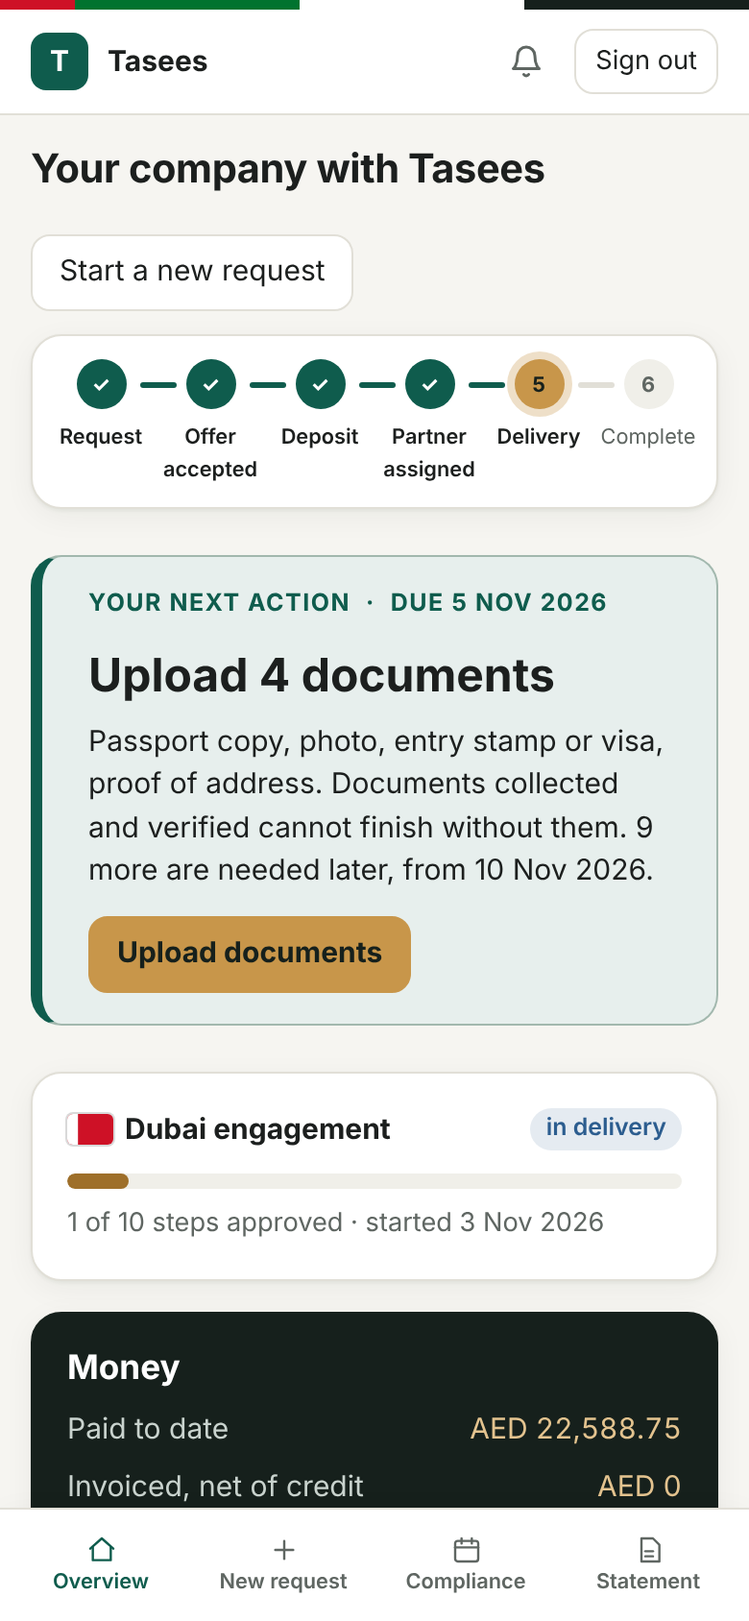
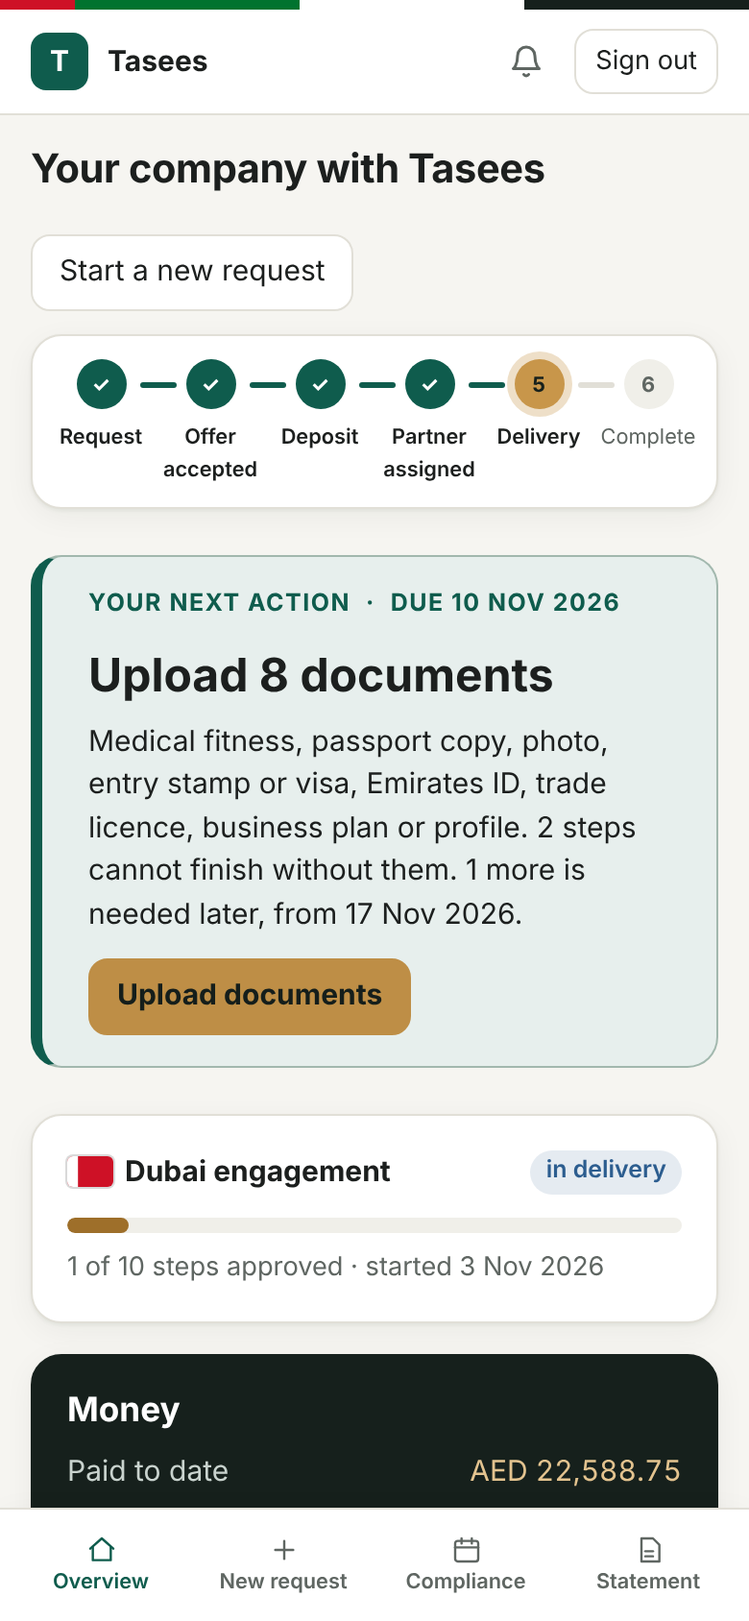
E15 review fixes: a step already approved never takes over "needed now"
The independent review found that documents left open on a step the client had already approved, due first, became
"needed now": the documents holding up real work were folded under "later" and the next action said the finished
step "cannot finish". Approved steps no longer count; their open documents are listed last, to send only if the
firm asks, and are not counted as needed later in the next action.

Also: the next action's date is the most urgent one; the property test runs today across three weeks and checks
sent-back, late, tied, approved and unknown steps; a smoke check compares the plan with the steps themselves;
heading levels and the panel's opening are corrected.

Tests: core 152, API 365 (1 skipped) on PGlite; typecheck clean; smoke 325 checks.

Claude-Session: https://claude.ai/code/session_01QzEGiu7q2Qy5LpHAKh2X9v

diff --git a/packages/core/test/documents.test.ts b/packages/core/test/documents.test.ts
@@ -8,6 +8,7 @@ const steps: PlannedStep[] = [
   { id: "bank", seq: 7, dueDate: "2026-11-10" },
   { id: "vat", seq: 9, dueDate: "2026-11-17" },
   { id: "undated", seq: 11, dueDate: null },
+  { id: "done", seq: 0, dueDate: "2026-11-01", approved: true },
 ];
 const doc = (id: string, milestoneId: string, status: PlannedDocument["status"] = "requested"): PlannedDocument => ({ id, milestoneId, status });
 const TODAY = "2026-11-03";
@@ -39,27 +40,52 @@ describe("the client's documents, grouped (E15)", () => {
   it("a document sent back, or one for a step due today or late, is always needed now", () => {
     const docs = [doc("l1", "licence"), doc("t1", "vat", "rejected"), doc("v1", "visa")];
     expect(documentPlan(docs, steps, TODAY).now).toEqual(["l1", "t1"]);
+    // The date is the most urgent one: the licence's 5 November, not the sent-back VAT document's 17th.
+    expect(documentPlan(docs, steps, TODAY).nowBy).toBe("2026-11-05");
     // On 10 November the licence's documents are late and the visa's are due: all needed now.
     expect(documentPlan(docs, steps, "2026-11-10").now).toEqual(["l1", "v1", "t1"]);
   });
 
-  it("every document is in exactly one group, and nothing is needed now only when nothing is missing", () => {
+  it("a document left open on a step already approved never takes over 'now' (independent review of E15)", () => {
+    // The approved step is due first and is late, yet the licence's documents are the ones needed now.
+    const docs = [doc("x1", "done"), doc("x2", "done", "rejected"), doc("l1", "licence"), doc("v1", "visa")];
+    const plan = documentPlan(docs, steps, TODAY);
+    expect(plan.now).toEqual(["l1"]);
+    expect(plan.nowBy).toBe("2026-11-05");
+    expect(plan.later).toEqual([
+      { milestoneId: "visa", dueDate: "2026-11-10", ids: ["v1"] },
+      { milestoneId: "done", dueDate: "2026-11-01", ids: ["x1", "x2"], approved: true },
+    ]);
+    // Only approved-step leftovers: nothing is needed now.
+    expect(documentPlan([doc("x1", "done")], steps, TODAY)).toMatchObject({ now: [], nowBy: null, later: [{ milestoneId: "done", approved: true }] });
+    // A document whose step is not in the list goes later, without a date.
+    expect(documentPlan([doc("l1", "licence"), doc("m1", "missing")], steps, TODAY).later).toEqual([{ milestoneId: "missing", dueDate: null, ids: ["m1"] }]);
+  });
+
+  it("every document is in exactly one group; sent-back and late documents are now; nothing later is due before or with the first batch", () => {
     const statuses = ["requested", "uploaded", "received", "rejected"] as const;
     let seed = 3;
     const rnd = (n: number) => ((seed = (seed * 48271) % 2147483647) % n);
     for (let k = 0; k < 300; k++) {
       const docs = Array.from({ length: 1 + rnd(12) }, (_, i) => doc(`d${i}`, steps[rnd(steps.length)]!.id, statuses[rnd(4)]));
-      const today = `2026-11-0${1 + rnd(9)}`;
+      const today = `2026-11-${String(1 + rnd(20)).padStart(2, "0")}`;
       const plan = documentPlan(docs, steps, today);
+      const label = JSON.stringify({ docs, today });
       const all = [...plan.now, ...plan.later.flatMap((l) => l.ids), ...plan.submitted].sort();
-      expect(all).toEqual(docs.map((d) => d.id).sort());
-      const missing = docs.filter((d) => d.status === "requested" || d.status === "rejected");
-      expect(plan.now.length > 0).toBe(missing.length > 0);
-      for (const id of plan.submitted) expect(["uploaded", "received"]).toContain(docs.find((d) => d.id === id)!.status);
-      // Nothing later is due before something now (sent-back documents aside).
-      const dueOf = (id: string) => steps.find((s) => s.id === docs.find((d) => d.id === id)!.milestoneId)!.dueDate ?? "9999";
-      const nowWaiting = plan.now.filter((id) => docs.find((d) => d.id === id)!.status === "requested").map(dueOf);
-      for (const l of plan.later) for (const id of l.ids) for (const n of nowWaiting) expect(dueOf(id) >= n).toBe(true);
+      expect(all, label).toEqual(docs.map((d) => d.id).sort());
+      const stepOf = (id: string) => steps.find((s) => s.id === docs.find((d) => d.id === id)!.milestoneId)!;
+      const statusOf = (id: string) => docs.find((d) => d.id === id)!.status;
+      const open = docs.filter((d) => (d.status === "requested" || d.status === "rejected") && !stepOf(d.id).approved);
+      expect(plan.now.length > 0, label).toBe(open.length > 0);
+      for (const id of plan.submitted) expect(["uploaded", "received"]).toContain(statusOf(id));
+      for (const id of plan.now) expect(stepOf(id).approved, label).toBeFalsy();
+      // Every sent-back document, and every one for a step due today or late, is needed now (approved steps aside).
+      for (const d of open) if (d.status === "rejected" || (stepOf(d.id).dueDate ?? "9999") <= today) expect(plan.now, label).toContain(d.id);
+      // Nothing later (on a step not approved) is due before or on the same day as the first batch waiting now.
+      const dueOf = (id: string) => stepOf(id).dueDate ?? "9999";
+      const nowWaiting = plan.now.filter((id) => statusOf(id) === "requested").map(dueOf);
+      for (const l of plan.later.filter((x) => !x.approved)) for (const id of l.ids) for (const n of nowWaiting) expect(dueOf(id) > n, label).toBe(true);
+      expect(plan.nowBy, label).toBe(plan.now.map(dueOf).filter((x) => x !== "9999").sort()[0] ?? null);
     }
   });
 });

diff --git a/packages/core/src/documents.ts b/packages/core/src/documents.ts
@@ -5,9 +5,12 @@
  * visas, a bank account and VAT is asked for a dozen or more at once, some for steps weeks away. The client sees:
  *  - **needed now**: anything sent back, anything for a step due today or already late, and the documents for the
  *    step that comes first among those still waiting (with every step due the same day). Uploading them brings the
- *    next batch forward, so "now" is never empty while something is missing;
+ *    next batch forward, so "now" is never empty while a step not yet approved is missing a document;
  *  - **needed later**: the rest, step by step in the order they are due, each with its date. Uploading early is fine;
  *  - **already sent**: uploaded (being checked) or received.
+ * A document still open on a step the client already approved never counts as needed now (independent review of
+ * E15): it would push the documents that hold up real work aside and say a finished step "cannot finish". It is
+ * listed last among the later ones, marked as for an approved step.
  *
  * Pure. Dates are YYYY-MM-DD (Gulf calendar days); a step with no due date comes last.
  */
@@ -23,15 +26,17 @@ export interface PlannedStep {
   id: string;
   seq: number;
   dueDate: string | null;
+  /** The client approved the step (or it was approved for them): its documents no longer hold anything up. */
+  approved?: boolean;
 }
 
 export interface DocumentPlan {
   /** Document request ids to upload now, in step order. */
   now: string[];
-  /** The latest due date among the steps "now" is for (null when nothing is needed now). */
+  /** The earliest due date among the steps "now" is for: the date that matters most (null when none has a date). */
   nowBy: string | null;
-  /** The rest still to upload, grouped by step, in the order the steps are due. */
-  later: Array<{ milestoneId: string; dueDate: string | null; ids: string[] }>;
+  /** The rest still to upload, grouped by step, in the order the steps are due; steps already approved last. */
+  later: Array<{ milestoneId: string; dueDate: string | null; ids: string[]; approved?: boolean }>;
   /** Uploaded or received. */
   submitted: string[];
 }
@@ -42,19 +47,20 @@ export function documentPlan(docs: PlannedDocument[], steps: PlannedStep[], toda
   const step = new Map(steps.map((s) => [s.id, s]));
   const due = (d: PlannedDocument) => step.get(d.milestoneId)?.dueDate ?? LAST;
   const seq = (d: PlannedDocument) => step.get(d.milestoneId)?.seq ?? Number.MAX_SAFE_INTEGER;
-  const order = (x: PlannedDocument, y: PlannedDocument) => due(x).localeCompare(due(y)) || seq(x) - seq(y);
+  const approved = (d: PlannedDocument) => !!step.get(d.milestoneId)?.approved;
+  const order = (x: PlannedDocument, y: PlannedDocument) => Number(approved(x)) - Number(approved(y)) || due(x).localeCompare(due(y)) || seq(x) - seq(y);
   const outstanding = docs.filter((d) => d.status === "requested" || d.status === "rejected").sort(order);
-  const waiting = outstanding.filter((d) => d.status === "requested");
+  const waiting = outstanding.filter((d) => d.status === "requested" && !approved(d));
   const first = waiting.length ? due(waiting[0]!) : null;
-  const isNow = (d: PlannedDocument) => d.status === "rejected" || due(d) <= today || due(d) === first;
+  const isNow = (d: PlannedDocument) => !approved(d) && (d.status === "rejected" || due(d) <= today || due(d) === first);
   const now = outstanding.filter(isNow);
   const later = new Map<string, string[]>();
   for (const d of outstanding.filter((x) => !isNow(x))) later.set(d.milestoneId, [...(later.get(d.milestoneId) ?? []), d.id]);
   const nowDates = now.map(due).filter((x) => x !== LAST).sort();
   return {
     now: now.map((d) => d.id),
-    nowBy: nowDates.length ? nowDates[nowDates.length - 1]! : null,
-    later: [...later.entries()].map(([milestoneId, ids]) => ({ milestoneId, dueDate: step.get(milestoneId)?.dueDate ?? null, ids })),
+    nowBy: nowDates[0] ?? null,
+    later: [...later.entries()].map(([milestoneId, ids]) => ({ milestoneId, dueDate: step.get(milestoneId)?.dueDate ?? null, ids, ...(step.get(milestoneId)?.approved ? { approved: true } : {}) })),
     submitted: docs.filter((d) => d.status === "uploaded" || d.status === "received").map((d) => d.id),
   };
 }

diff --git a/apps/web/public/js/engagement.js b/apps/web/public/js/engagement.js
@@ -308,7 +308,7 @@ function renderClientEngagement(e, parts) {
   const byStep = (ids) => {
     const groups = new Map();
     for (const id of ids) { const r = byId.get(id); if (r) groups.set(r.milestoneId, [...(groups.get(r.milestoneId) ?? []), r]); }
-    return [...groups].map(([mid, rs]) => `<h3 class="checklist-step">Needed for ${esc(stepName(mid))}</h3><ul class="checklist">${rs.map(docItem).join("")}</ul>`).join("");
+    return [...groups].map(([mid, rs]) => `<h4 class="checklist-step">Needed for ${esc(stepName(mid))}</h4><ul class="checklist">${rs.map(docItem).join("")}</ul>`).join("");
   };
   // U1: the documents fold away once none is outstanding; steps stay open (they are the record); the rest folds.
   const checklist = docs.length
@@ -316,9 +316,9 @@ function renderClientEngagement(e, parts) {
         `Documents we need from you ${missing ? badge("pending", `${missing} to upload now`) : laterCount ? badge("info", "nothing needed now") : badge("ok", "complete")}`,
         `<p class="small muted">Each file is checked here before it is sent: PDF, a photo, Word or Excel, up to ${Math.round(uploadRules.maxBytes / 1024 / 1024)} MB. Files are stored in the UAE and shared only with the firm doing the work.</p>
       ${missing ? `<section class="docs-now" id="docs-now"><h3>Needed now</h3><p class="small muted">For the steps that come first. The rest are below, with the date each step is expected; upload them early if you have them.</p>${byStep(plan.now)}</section>` : laterCount ? `<p class="small" id="docs-now">Nothing is needed from you right now. The documents below are for later steps; upload them early if you have them.</p>` : ""}
-      ${laterCount ? `<details class="docs-later" id="docs-later"${missing ? "" : " open"}><summary><b>Needed later: ${laterCount}</b></summary>${plan.later.map((l) => `<h3 class="checklist-step">Needed for ${esc(stepName(l.milestoneId))}</h3>${l.dueDate ? `<p class="small muted">Expected by ${date(l.dueDate)}</p>` : ""}<ul class="checklist">${l.ids.map((id) => byId.get(id)).filter(Boolean).map(docItem).join("")}</ul>`).join("")}</details>` : ""}
-      ${plan.submitted.length ? `<details class="docs-sent" id="docs-sent"><summary><b>Already sent: ${plan.submitted.length}</b></summary><ul class="checklist">${plan.submitted.map((id) => byId.get(id)).filter(Boolean).map(docItem).join("")}</ul></details>` : ""}`,
-        { id: "docs", open: missing > 0 },
+      ${laterCount ? `<details class="docs-later" id="docs-later"${missing ? "" : " open"}><summary><h3>Needed later: ${laterCount}</h3></summary>${plan.later.map((l) => `<h4 class="checklist-step">Needed for ${esc(stepName(l.milestoneId))}</h4>${l.approved ? `<p class="small muted">This step is already approved: send it only if the firm asks for it again.</p>` : l.dueDate ? `<p class="small muted">Expected by ${date(l.dueDate)}</p>` : ""}<ul class="checklist">${l.ids.map((id) => byId.get(id)).filter(Boolean).map(docItem).join("")}</ul>`).join("")}</details>` : ""}
+      ${plan.submitted.length ? `<details class="docs-sent" id="docs-sent"><summary><h3>Already sent: ${plan.submitted.length}</h3></summary><ul class="checklist">${plan.submitted.map((id) => byId.get(id)).filter(Boolean).map(docItem).join("")}</ul></details>` : ""}`,
+        { id: "docs", open: missing > 0 || laterCount > 0 },
       )
     : "";
   const pending = (e.payments ?? []).filter((p) => p.status === "pending");

diff --git a/apps/api/src/services/journey.ts b/apps/api/src/services/journey.ts
@@ -135,8 +135,8 @@ export async function clientNextActions(tx: Queryable, now: Date, cal: WorkCalen
     });
   }
   // E15: only what is needed now counts; the rest is said to come later, from the date its first step is due.
-  const docs = await tx.query<{ id: string; engagement_id: string; milestone_id: string; kind: string; status: "requested" | "rejected"; decision_note: string | null; step: string; seq: number; due_date: string | null }>(
-    `select d.id, d.engagement_id, d.milestone_id, d.kind, d.status, d.decision_note, m.name as step, m.seq, m.due_date::text as due_date
+  const docs = await tx.query<{ id: string; engagement_id: string; milestone_id: string; kind: string; status: "requested" | "rejected"; decision_note: string | null; step: string; seq: number; due_date: string | null; step_status: string }>(
+    `select d.id, d.engagement_id, d.milestone_id, d.kind, d.status, d.decision_note, m.name as step, m.seq, m.due_date::text as due_date, m.status as step_status
        from document_requests d join milestones m on m.id = d.milestone_id
       where d.status in ('requested', 'rejected') and ($1::uuid is null or d.engagement_id = $1) order by d.created_at`,
     [only],
@@ -146,12 +146,15 @@ export async function clientNextActions(tx: Queryable, now: Date, cal: WorkCalen
   for (const [eid, all] of byEngagement) {
     const plan = documentPlan(
       all.map((d) => ({ id: d.id, milestoneId: d.milestone_id, status: d.status })),
-      all.map((d) => ({ id: d.milestone_id, seq: num(d.seq), dueDate: d.due_date })),
+      all.map((d) => ({ id: d.milestone_id, seq: num(d.seq), dueDate: d.due_date, approved: d.step_status === "client_approved" })),
       today,
     );
     const list = plan.now.map((id) => all.find((d) => d.id === id)!);
-    const laterCount = plan.later.reduce((n, l) => n + l.ids.length, 0);
-    const laterFrom = plan.later[0]?.dueDate ?? null;
+    if (!list.length) continue; // only documents left open on steps already approved: nothing holds up work
+    // Later means steps still to come: documents left on approved steps are not counted as expected.
+    const ahead = plan.later.filter((l) => !l.approved);
+    const laterCount = ahead.reduce((n, l) => n + l.ids.length, 0);
+    const laterFrom = ahead[0]?.dueDate ?? null;
     const back = list.filter((d) => d.status === "rejected");
     // Each kind once (a passport copy asked for three steps is one thing to find), and how many steps wait.
     const kinds = [...new Set(list.map((d) => docWords(d.kind)))];

diff --git a/apps/web/public/i18n-ar.js b/apps/web/public/i18n-ar.js
@@ -143,6 +143,7 @@ export const AR = {
   "Documents we need from you": "المستندات التي نحتاجها منك",
   // E15 (draft until the Arabic reviewer signs it off)
   "Needed now": "مطلوبة الآن",
+  "This step is already approved: send it only if the firm asks for it again.": "هذه الخطوة معتمدة بالفعل: أرسله فقط إذا طلبته الشركة مرة أخرى.",
   "nothing needed now": "لا شيء مطلوب الآن",
   "For the steps that come first. The rest are below, with the date each step is expected; upload them early if you have them.": "للخطوات التي تأتي أولاً. البقية أدناه مع التاريخ المتوقع لكل خطوة؛ يمكنك رفعها مبكراً إن كانت لديك.",
   "Nothing is needed from you right now. The documents below are for later steps; upload them early if you have them.": "لا شيء مطلوب منك الآن. المستندات أدناه للخطوات اللاحقة؛ يمكنك رفعها مبكراً إن كانت لديك.",

diff --git a/apps/api/src/services/views.ts b/apps/api/src/services/views.ts
@@ -193,7 +193,7 @@ export function partyEngagement(db: Database, user: SessionUser, engagementId: s
         ? {
             documentPlan: documentPlan(
               documentRequests.rows.map((d) => ({ id: d.id as string, milestoneId: d.milestone_id as string, status: d.status as DocumentStatus })),
-              (await tx.query<{ id: string; seq: number; due_date: string | null }>("select id, seq, due_date::text as due_date from milestones where engagement_id = $1", [engagementId])).rows.map((m) => ({ id: m.id, seq: num(m.seq), dueDate: m.due_date })),
+              (await tx.query<{ id: string; seq: number; due_date: string | null; status: string }>("select id, seq, due_date::text as due_date, status from milestones where engagement_id = $1", [engagementId])).rows.map((m) => ({ id: m.id, seq: num(m.seq), dueDate: m.due_date, approved: m.status === "client_approved" })),
               (await tx.query<{ d: string }>("select gulf(app_now())::text as d")).rows[0]!.d.slice(0, 10),
             ),
           }

diff --git a/apps/web/public/styles.css b/apps/web/public/styles.css
@@ -287,6 +287,7 @@ ul.checklist form { margin-top: var(--space-2); }
 .docs-now > h3:first-child { margin: var(--space-4) 0 var(--space-1); }
 .docs-later, .docs-sent { margin-top: var(--space-4); padding-top: var(--space-3); border-top: 1px solid var(--line); }
 .docs-later > summary, .docs-sent > summary { cursor: pointer; padding: var(--space-1) 0; }
+.docs-later > summary > h3, .docs-sent > summary > h3 { display: inline; font-size: var(--text-md, 1rem); margin: 0; }
 /* In the checklist each upload is one compact row: the drop zone, its message, and the button. */
 form.upload-row { display: grid; grid-template-columns: minmax(0, 1fr) auto; gap: var(--space-1) var(--space-2); align-items: center; }
 form.upload-row .dropzone { flex-direction: row; flex-wrap: wrap; align-items: center; padding: var(--space-2); }

diff --git a/apps/api/test/journey.test.ts b/apps/api/test/journey.test.ts
@@ -88,7 +88,7 @@ describe("client journey", () => {
     expect(plan.now.length).toBeGreaterThan(0);
     expect(h.nextActions[0].title).toBe(`Upload ${plan.now.length} document${plan.now.length > 1 ? "s" : ""}`);
     expect(h.nextActions[0].due).toBe(plan.nowBy);
-    const laterCount = plan.later.reduce((n: number, l: any) => n + l.ids.length, 0);
+    const laterCount = plan.later.filter((l: any) => !l.approved).reduce((n: number, l: any) => n + l.ids.length, 0);
     expect(laterCount).toBeGreaterThan(0);
     expect(h.nextActions[0].why).toMatch(new RegExp(`cannot finish without (?:it|them)\\. ${laterCount} more (?:is|are) needed later, from \\d{1,2} [A-Z][a-z]{2} \\d{4}\\.$`));
     expect(plan.submitted).toEqual([]);

diff --git a/outcomes/E15-client-documents.md b/outcomes/E15-client-documents.md
@@ -8,19 +8,21 @@ documents in one action)
 
 A new client sees the few documents that are holding up the first step, not every document the whole engagement
 will ever need. The rest are listed by step with the date each is expected, ready to upload early. What they have
-already sent is set aside. The next action says "Upload 4 documents… 9 more are needed later, from 10 Nov 2026" instead
-of "Upload 13 documents".
+already sent is set aside. On the demo engagement the next action says "Upload 8 documents… 2 steps cannot finish
+without them. 1 more is needed later, from 17 Nov 2026" instead of "Upload 13 documents"; the 4 left open on the
+step already approved are listed last, to send only if the firm asks.
 
 ## Scope
 
 1. **Core** (`packages/core/src/documents.ts`, pure): `documentPlan(docs, steps, today)`.
    - **Needed now:** anything sent back, anything for a step due today or late, and the documents for the step due
-     first among those still waiting (ties included).
+     first among those still waiting (ties included). A step already approved never counts.
+   - **Approved steps:** documents still open on such a step are listed last among the later ones, marked.
    - **Needed later:** the rest, by step in due order, each with its date.
    - **Already sent:** uploaded or received.
 2. **Next action** (`apps/api/src/services/journey.ts`): it counts only what is needed now, names those documents and
-   their step, and says how many more are needed later and from when. Its date is the latest due date among the steps
-   it covers.
+   their step, and says how many more are needed later (for steps still to come) and from when. Its date is the most urgent (earliest) due date
+   among the steps it covers. Documents left only on approved steps make no action.
 3. **Engagement view** (`apps/api/src/services/views.ts`): the client's view carries `documentPlan`, computed on the
    Gulf date. Partners and staff do not get it.
 4. **Page** (`apps/web/public/js/engagement.js`, `styles.css`): the documents panel shows "N to upload now", then:
@@ -45,28 +47,46 @@ of "Upload 13 documents".
   - At acceptance, only the first step's documents are needed now.
   - Once they are sent, the steps due next (the same day) come forward.
   - A document that was sent back, or is for a step due today or late, is always needed now.
-  - Over 300 random cases:
+  - A document left open on an approved step never takes over "now"; a document whose step is unknown goes later.
+  - The date is the most urgent one.
+  - Over 300 random cases (today across three weeks, an approved step included):
     - every document is in exactly one group;
-    - "now" is empty only when nothing is missing;
-    - nothing later is due before something now.
+    - "now" is empty only when no step not yet approved is missing a document;
+    - every sent-back or late document is now;
+    - nothing later is due on or before the first batch;
+    - the date is the earliest.
 - API (`journey.test.ts`):
   - The next action's title counts the plan's "now" and its date is the plan's.
   - The explanation ends with the number needed later and their date.
   - The partner's view carries no plan.
 - Smoke (`scripts/smoke.mjs`):
-  - The page's now and later lists match the platform's plan (4 now, 9 later on the demo engagement), with "4 to
-    upload now".
+  - Checked against the steps themselves: nothing needed now belongs to an approved step, and the first open step's
+    documents are the ones needed now.
+  - The page's now and later lists match the platform's plan, with "N to upload now".
   - The next action counts only "now".
   - An uploaded document moves to "Already sent: 1" and the count needed now falls.
   - At 390 px, no overflow and axe passes.
 
 Evidence recorded on 3 Nov 2026 (`docs/evidence/E15/`):
 
-- `pnpm test` (`tests-pglite.txt`): core 151 passed (17 files); API 365 passed, 1 skipped (36 files), on PGlite.
+- `pnpm test` (`tests-pglite.txt`): core 152 passed (17 files); API 365 passed, 1 skipped (36 files), on PGlite.
 - `pnpm typecheck`: clean (`typecheck.txt`).
-- `scripts/smoke.mjs` against a fresh demo: 324 checks OK, 0 failed (`smoke-log.txt`; 319 after E14).
+- `scripts/smoke.mjs` against a fresh demo: 325 checks OK, 0 failed (`smoke-log.txt`; 319 after E14).
 - Screenshots: `118-client-documents-grouped.png` (1280 px), `119-mobile-client-documents.png` and
-  `75-mobile-client-home.png` (390 px, the next action "Upload 4 documents").
+  `75-mobile-client-home.png` (390 px, the next action "Upload 8 documents").
+
+## Independent review
+
+- **Blocking, fixed with a test and a smoke check.** On the demo engagement, the four documents "needed now" belonged
+  to a step already approved. Because it was due first, it pushed the documents that hold up real work into
+  "later", and the next action said the finished step "cannot finish". Approved steps no longer count.
+- **Also fixed:**
+  - The next action's date is the most urgent one, not the latest.
+  - The property test now runs `today` across three weeks and checks sent-back and late documents, ties, approved
+    steps and unknown steps.
+  - Heading levels are corrected.
+  - The panel opens when only later documents remain.
+- **Recorded:** a late date shows as "due <date>" without the word "late".
 
 ## Dependencies
 

diff --git a/docs/DECISIONS.md b/docs/DECISIONS.md
@@ -1109,9 +1109,14 @@ owner on 3 Nov 2026: "start E15", after the portal assessment's point on the 13-
   - the documents for the step due first among those still waiting, with every step due the same day.
 
   Needed later is the rest, step by step in due order, each with its date. Uploading the current batch brings the
-  next one forward, so "now" is never empty while something is missing. Already sent is what is uploaded or received.
-- **The next action** counts only what is needed now ("Upload 4 documents"). It says how many more are needed later and
-  from when, and carries the date of the steps it is for. The client's engagement view carries the plan, and the page
+  next one forward, so "now" is never empty while a step not yet approved is missing a document. Already sent is
+  what is uploaded or received.
+- A document still open on a step the client already approved never counts as needed now. It is listed last among
+  the later ones, with "send it only if the firm asks for it again". Found by the independent review of E15: such a
+  step, due first, had pushed the documents that hold up real work aside, and the next action said it "cannot
+  finish".
+- **The next action** counts only what is needed now ("Upload 8 documents" on the demo engagement). It says how many more are needed later (for steps still to come) and
+  from when, and carries the most urgent date among the steps it is for. The client's engagement view carries the plan, and the page
   draws it: the documents needed now first, the later ones folded by step with "Expected by", what was sent folded
   last. Early upload stays possible.
 - Partners and MKW staff see the documents as before; the plan is the client's.

diff --git a/docs/KNOWN-GAPS.md b/docs/KNOWN-GAPS.md
@@ -347,8 +347,9 @@ in a browser; everything listed here is not.
      (and possibly across partner firms) would need the client's consent per firm; it is not built.
 126. **The acceptance emails still list every document**, one email per line (O6). The screen and the next action
      group them; the emails are unchanged.
-127. **A document still asked for on a step already approved stays needed now** (the demo seeds such a case). Whether
-     an approved step's open requests should close is a delivery rule for ops, not changed here.
+127. **A document still asked for on a step already approved stays open.** It is no longer needed now: it is listed
+     last, "send it only if the firm asks for it again" (D97). Whether an approved step's open requests should close
+     by themselves is a delivery rule for ops, not changed here; the demo seeds such a case.
 128. **The new Arabic strings for E15 are drafts** until the Arabic reviewer signs them off (with gaps 111, 116, 119).
 
 ## E9: workspace look
